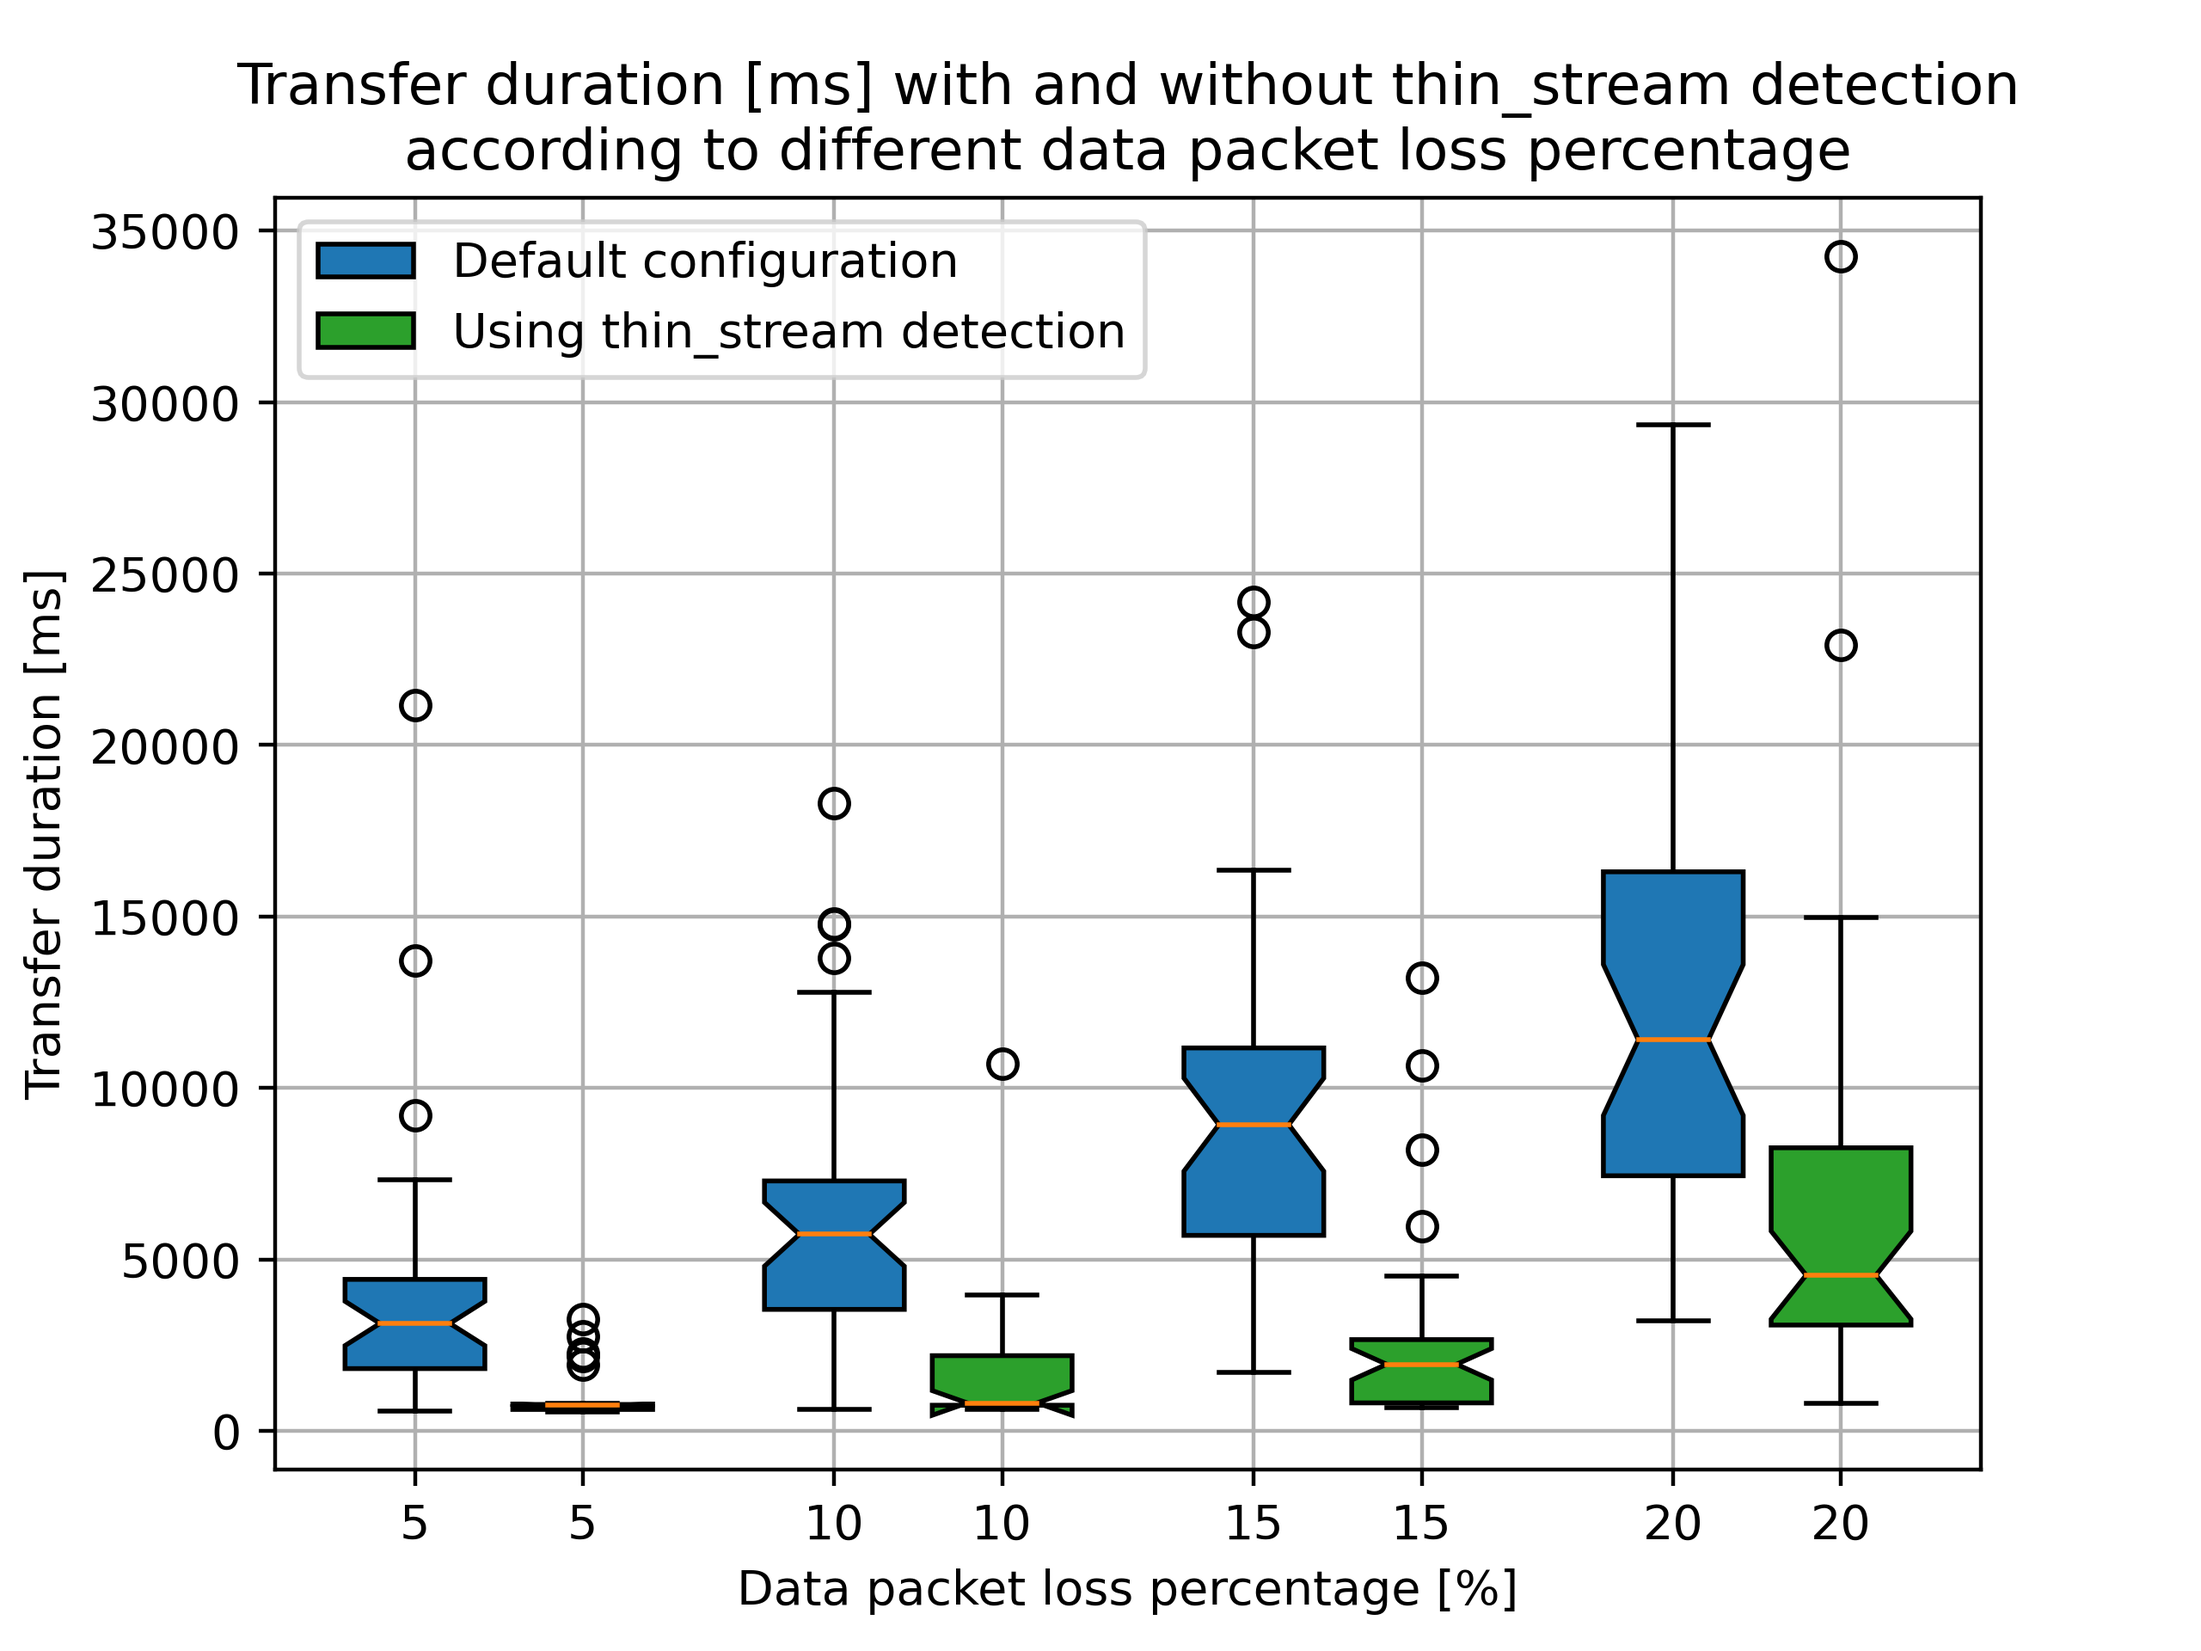
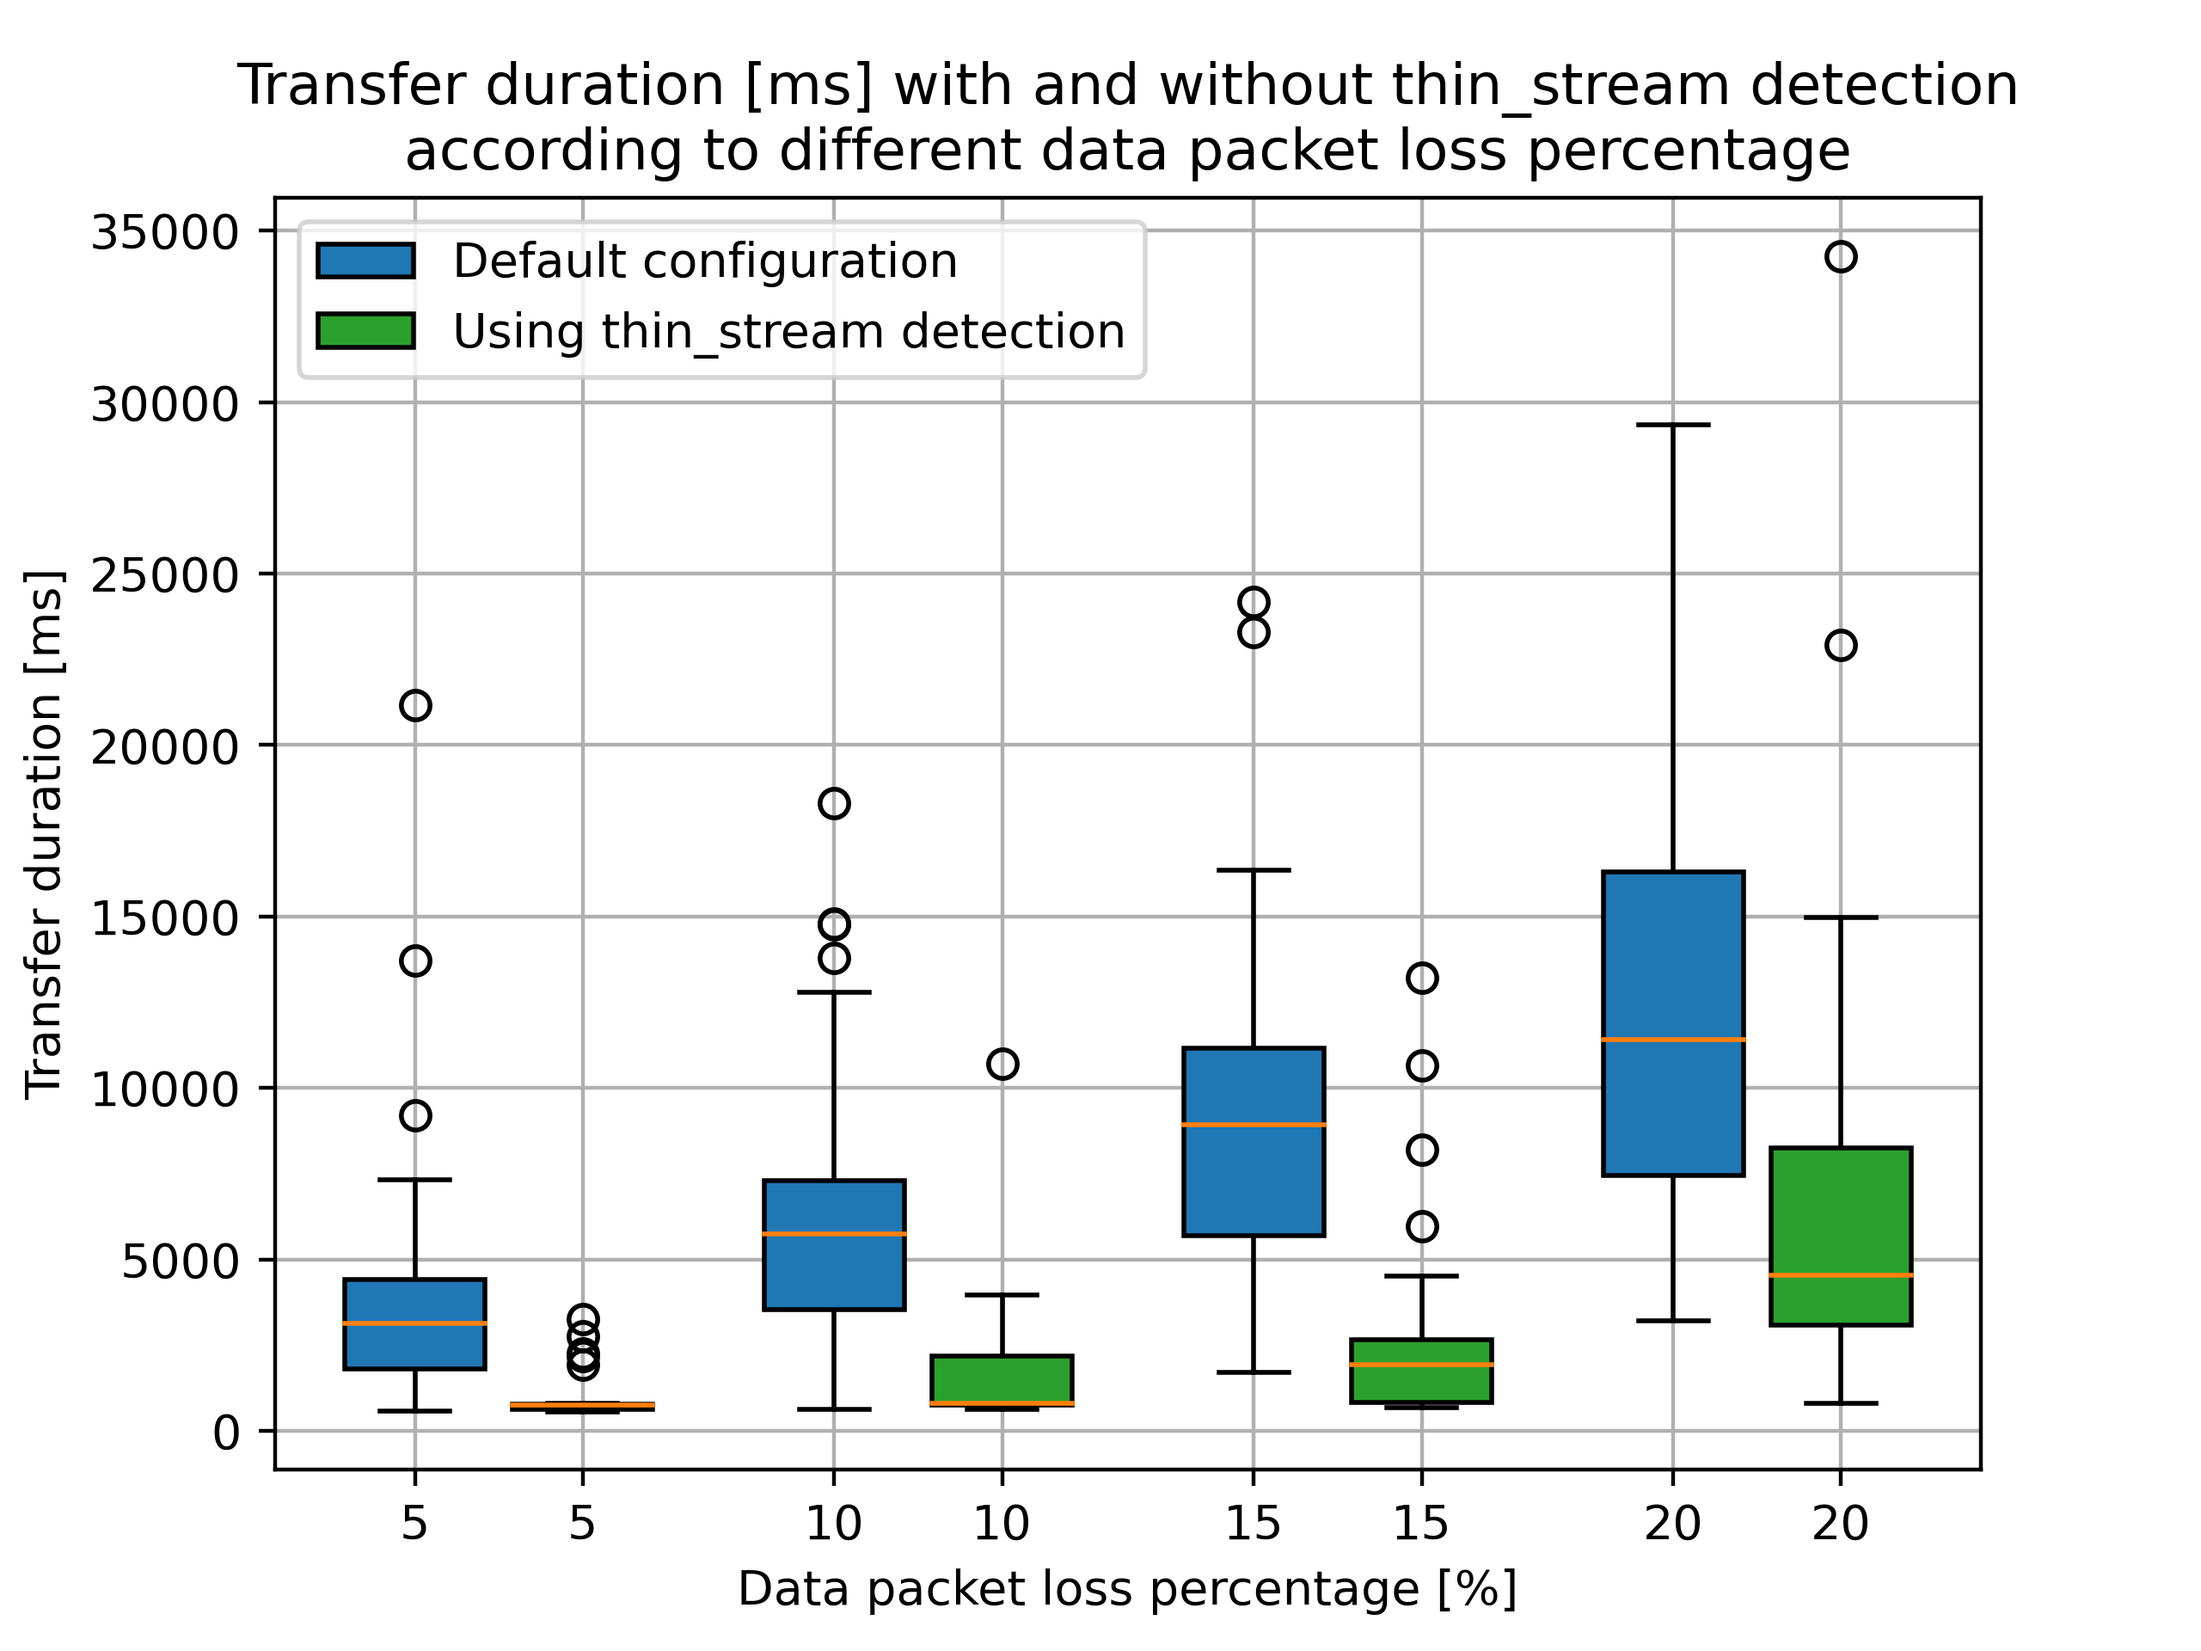
Fix typos + thin_stream graphs + remove useless printf in plugins
Multiple typos have been erased as well as useless plots.
The UTO and thin_stream plugins have been changed to resemble more the described code in the Master's thesis written document.
The confidence intervals of the thin_stream plots are not shown anymore.

diff --git a/measurements/plot_thin_stream.py b/measurements/plot_thin_stream.py
@@ -5,15 +5,8 @@ import statistics
 from math import ceil
 
 dir_path = os.path.dirname(os.path.realpath(__file__))
-
-# N = 3 # N is going from 1 to this value (3 here)
-# print(len(sys.argv))
-# print(sys.argv)
-# if len(sys.argv) > 1:
-#   N = int(sys.argv[1])
-
 ack_threshold = 1
-loss_percentages = [0, 5, 10, 15, 20] #[0, 10, 20, -1]
+loss_percentages = [5, 10, 15, 20] #[0, 10, 20, -1]
 num_packets_out_thresholds = [-1, 4]
 
 
@@ -40,7 +33,7 @@ for num_packets_out_threshold in num_packets_out_thresholds:
         if duration is not None:
           current_duration.append(duration)
     durations_for_numPackOut_threshold.append(current_duration)
-  
+
   durations.append(durations_for_numPackOut_threshold)
 
 
@@ -55,22 +48,19 @@ def odd(x):
 positions_without_thin_stream = [1.5*i-0.3 for i in range(1, 1+len(loss_percentages))]
 positions_with_thin_stream = [1.5*i+0.3 for i in range(1, 1+len(loss_percentages))]
 fig, ax = plt.subplots()
-bp_without = ax.boxplot(durations[0], positions=positions_without_thin_stream, notch=True,
+bp_without = ax.boxplot(durations[0], positions=positions_without_thin_stream, notch=False,
                         patch_artist=True, boxprops=dict(facecolor="C0"))
-bp_with = ax.boxplot(durations[1], positions=positions_with_thin_stream, notch=True,
+bp_with = ax.boxplot(durations[1], positions=positions_with_thin_stream, notch=False,
                      patch_artist=True, boxprops=dict(facecolor="C2"))
 
 ax.legend([bp_without["boxes"][0], bp_with["boxes"][0]], ['Default configuration', 'Using thin_stream detection'])
-#for index, duration_list in enumerate(durations):
-#  thin_stream = "using thin_stream" if index % 2 == 1 else "without thin_stream"
-#  print('When loss_percentage = {}, the median duration is {} {}'.format(loss_percentages[index//2], statistics.median(duration_list), thin_stream))
 
 max_duration = 0
 for duration_list_for_case in durations:
   for duration_list in duration_list_for_case:
     for duration_value in duration_list:
       max_duration = max(max_duration, duration_value)
-#plt.ylim([0, 5000*ceil(max_duration/5000)+5])
+
 plt.title('Transfer duration [ms] with and without thin_stream detection\naccording to different data packet loss percentage')
 plt.ylabel('Transfer duration [ms]')
 plt.xlabel('Data packet loss percentage [%]')

diff --git a/ubpf/plugins/thin_stream/should_fast_retransmit.c b/ubpf/plugins/thin_stream/should_fast_retransmit.c
@@ -1,6 +1,4 @@
-#include <stdio.h>
 #include "lwip/tcp.h"
-#include "lwip/err.h"
 #include "getset.h"
 
 /* A connection is considered to be a thin-stream if it has less than
@@ -21,18 +19,12 @@ u8_t should_fast_retransmit(struct tcp_pcb *pcb) {
 
 	/* This already takes care of the wrap around behaviour of tcp (since unsigned bits are used) */
 	u32_t num_bytes_unacked = next_seqno - last_acked_seqno;
-	help_printf_str("Num bytes unacked:");
-	help_printf_uint32_t(num_bytes_unacked);
 	u32_t num_packets_out = num_bytes_unacked/mss;
 	u8_t dupacks = get_dupacks(pcb);
 
-	if ((int)num_packets_out < NUM_PACKETS_OUT_THRESHOLD) { /* TODO: < ou <= ? Dans Linux c'est < 4 */
-		help_printf_str("This connection is currently considered as a thin-stream");
-		help_printf_uint8_t(num_packets_out);
-		help_printf_uint8_t(NUM_PACKETS_OUT_THRESHOLD);
+	if ((int)num_packets_out < NUM_PACKETS_OUT_THRESHOLD) {
 		return dupacks >= 1; /* Should always be true when calling this function */
 	} else {
-		help_printf_str("Not in thin_stream");
 		/* Not a thin-stream: apply basic behaviour */
 		return dupacks >= 3;
 	}

diff --git a/ubpf/plugins/user_timeout/write_tcp_uto_option.c b/ubpf/plugins/user_timeout/write_tcp_uto_option.c
@@ -11,8 +11,6 @@ u32_t *write_tcp_uto_option(struct tcp_pcb *pcb) {
 		help_printf_str("uBPF: write_tcp_uto_option: input opts could not be retrieved");
 		return ERR_ARG;
 	}
-	help_printf_str("I'm in write_tcp_uto_option, address of opts");
-	help_printf_ptr(opts);
 	u8_t kind = TCP_OPT_UTO;
 	u8_t granularity = UTO_GRANULARITY;
 	u8_t length = 4;
@@ -20,9 +18,5 @@ u32_t *write_tcp_uto_option(struct tcp_pcb *pcb) {
 	/* No need to pad with NOP options as the option takes 4 bytes (and thus is aligned) */
 	u32_t opts_value = custom_htonl((u32_t) kind << 24 | (u32_t) length << 16 | (u32_t) granularity << 15 | timeout);
 	set_opt(opts, 0, opts_value);
-	help_printf_str("I'm in write_tcp_uto_option, address of opts");
-	help_printf_ptr(opts);
-	help_printf_str("I'm in write_tcp_uto_option, address of opts+1");
-	help_printf_ptr(opts+1);
 	return opts+1;
 }

diff --git a/ubpf/plugins/user_timeout/parse_tcp_uto_option.c b/ubpf/plugins/user_timeout/parse_tcp_uto_option.c
@@ -1,4 +1,3 @@
-#include <stdio.h>
 #include "lwip/tcp.h"
 #include "lwip/err.h"
 #include "getset.h"
@@ -28,8 +27,6 @@ int parse_tcp_uto_option(struct tcp_pcb *pcb) {
 		/* Parsed timeout is in seconds, put it in ms */
 		timeout = 1000 * timeout;
 	}
-	help_printf_str("granularity received :");
-	help_printf_uint8_t(granularity);
 	set_user_timeout(pcb, timeout);
 	return ERR_OK; /* Parsed option successfully */
 }

diff --git a/measurements/plot_uto.py b/measurements/plot_uto.py
@@ -76,4 +76,4 @@ def plot_pcap(pcap_file, title, timeout_value):
   plt.show()
 
 plot_pcap(stop_pcap_fd, "UTO plugin activated, timeout after 5 seconds", 5)
-plot_pcap(restart_pcap_fd, "UTO plugins activate, timeout after 12 seconds", 12)
+plot_pcap(restart_pcap_fd, "UTO plugin activated, timeout after 12 seconds", 12)
